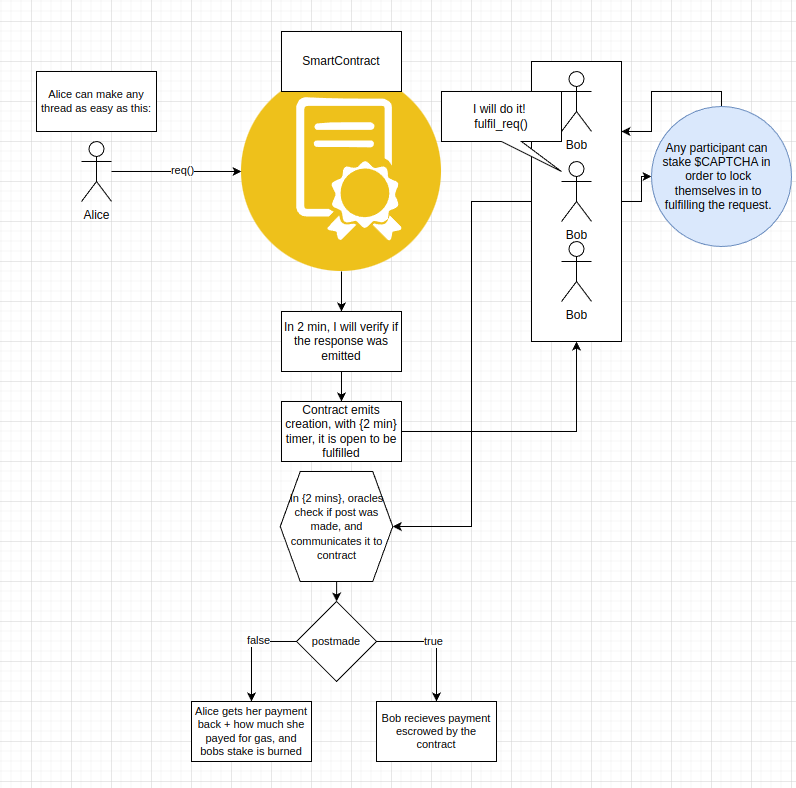
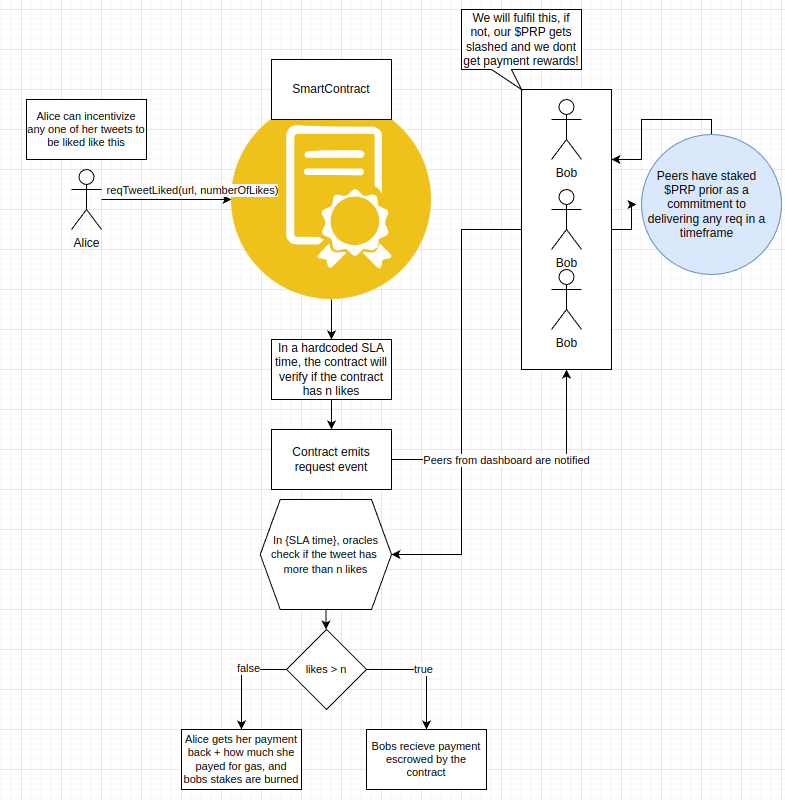
readme: diagram re-done

Changed region(s): [[0.0306, 0.0, 1.0, 0.8832], [0.214, 0.7919, 0.3975, 1.0], [0.4586, 0.7919, 0.642, 1.0]]

diff --git a/README.md b/README.md
@@ -54,21 +54,9 @@ It will fulfill this action with the simple x step process:
 
 <p>Initially, for reasons of the POC, there will be heavy bootstrapping of the peer network, however, the real value would emerge if the $PRP peer network is able to incentivize itself all through the requestor to peer cycle, without the need for constant monitoring from part of the team.</p>
 
-TO-DO: CHANGE SECTION
+<img alt="image of the incentivisation mechanism" src="./diagrams/MVP_Incentives_mechanism.png"></img>
 
-<!-- <h2>User interface 💻</h2>
-
-<img alt="image of the MVP of the visual interface" src="./diagrams/MVP_visual_interface.png"></img>
-
-<p>This UI prototype will allow any peer to fill out any request and execute this computation in a puzzle-agnostic way.</p>
-
-<p>The method of incentivization of which this peer solving this puzzle will act, is by accepting a form of monetary recompense, there is no better solution to this problem than involving any cryptocurrency with low tx fees, for purposes of the POC, we have simply decided to go with fantom(FTM)</p>
-
-<h2>Incentivisation Mechanism 🪙</h2> -->
-
-TO-DO: CHANGE SECTION
-
-<!-- <img alt="image of the incentivisation mechanism" src="./diagrams/MVP_Incentives_mechanism.png"></img>
+<h1>Success criteria</h1>
 
 <div>The POC will be marked as a success if the following things happen:
 <ol>
@@ -78,4 +66,4 @@ TO-DO: CHANGE SECTION
   <li>The request computation can be payed for</li>
   <li>The output of the computation is output, and have the post verified</li>
 </ol>
-</div> -->
+</div>
